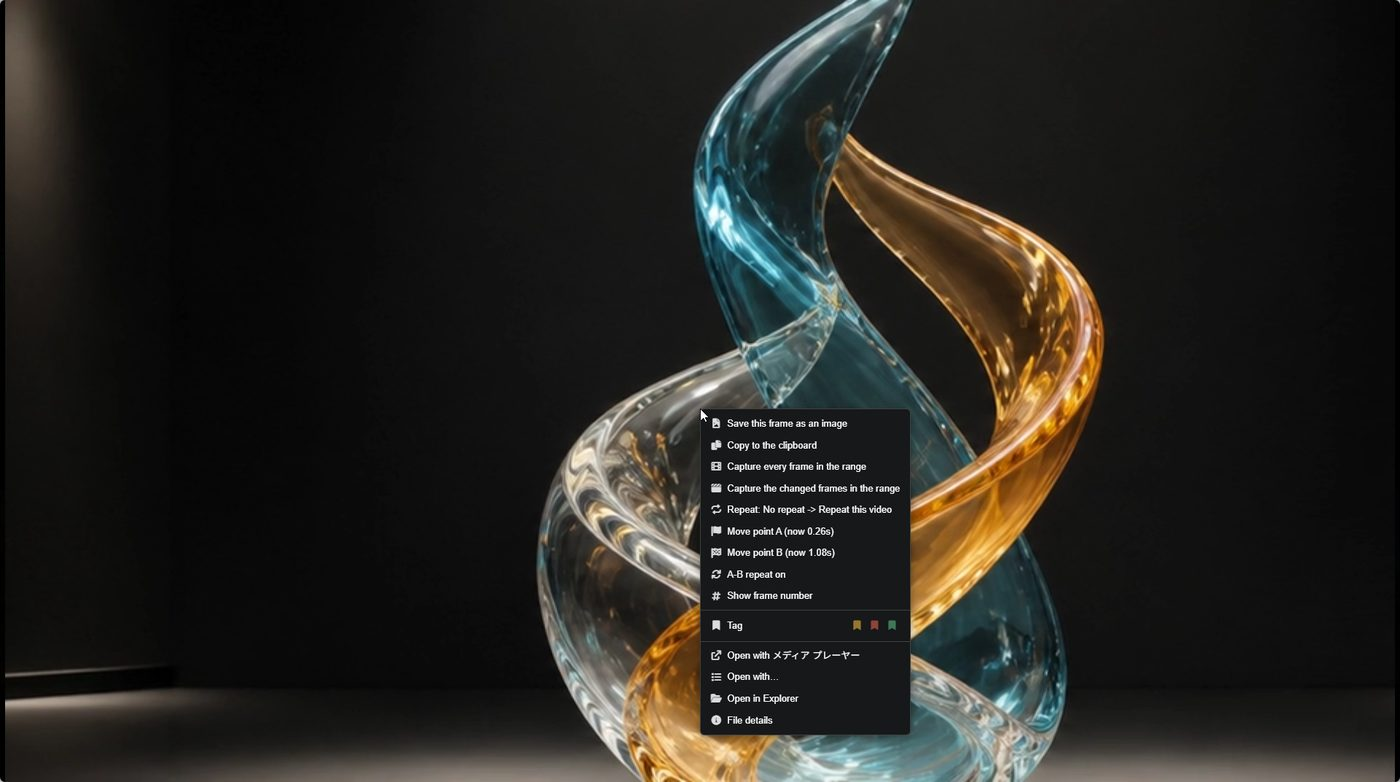
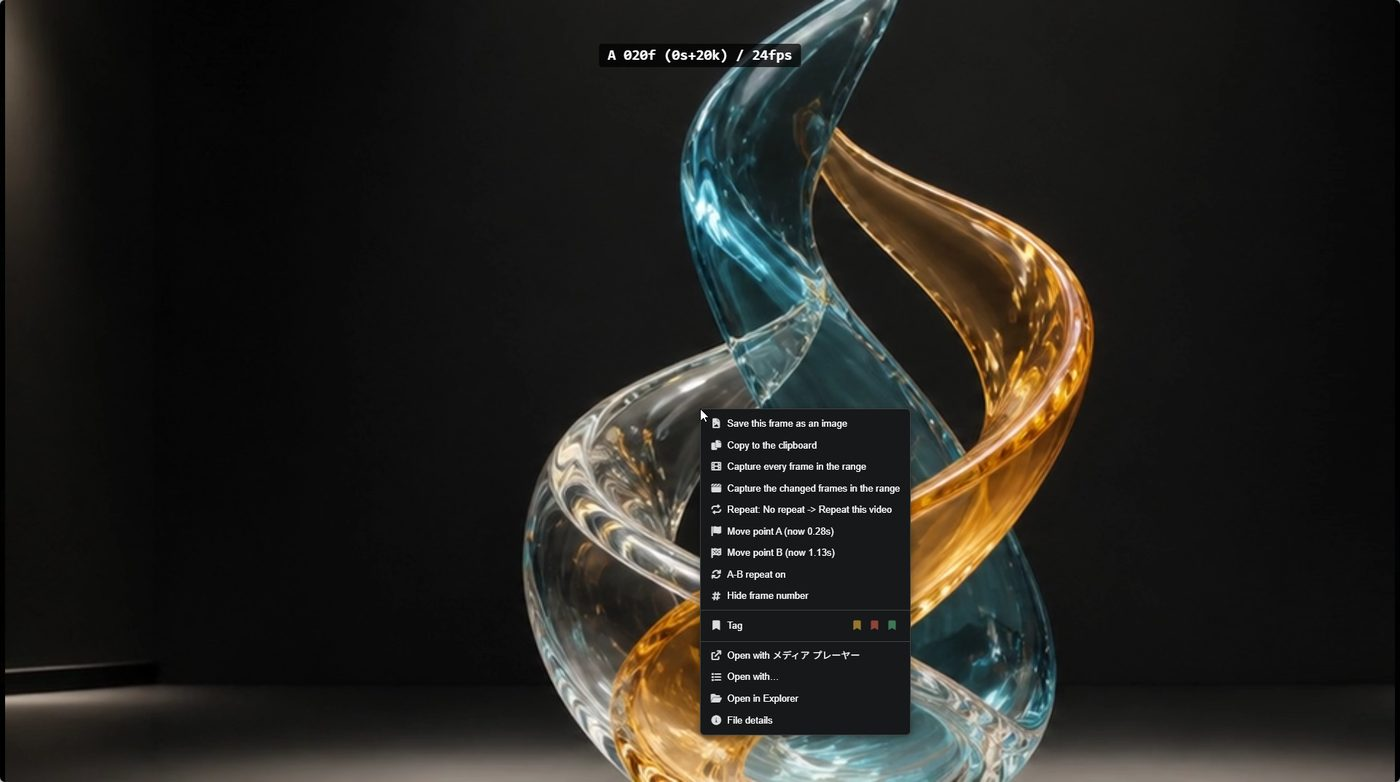
書き出しの節の絵に、コマ数を出す
「05 抜く」は範囲を1コマずつ取り出す節なのに、絵には数えている
ところが写っていなかった。A点から20コマ目という表示と、範囲で
書き出すメニューが1枚に収まった。

ホイールの説明も直した。Shift が付箋送りになり、30秒と10秒が
Ctrl と Alt へ動いていたのに、サイトは古いままだった。

Changed region(s): [[0.3686, 0.0, 0.7986, 1.0], [0.0, 0.8286, 0.1229, 0.9207], [0.0, 0.0, 0.0614, 0.1535]]

diff --git a/docs/index.html b/docs/index.html
@@ -872,7 +872,9 @@ footer a:hover { color: var(--text); }
   <div class="wrap">
     <span>YAE View</span>
     <span class="meta" data-version>v0.1.19</span>
+    <span class="meta">© 2026 Sao N</span>
     <span class="sep"></span>
+    <a href="privacy.html">プライバシーポリシー</a>
     <a href="https://github.com/saori-subaru/yaeview/releases" rel="noopener">リリース一覧</a>
   </div>
 </footer>

diff --git a/docs/en/index.html b/docs/en/index.html
@@ -874,7 +874,9 @@ footer a:hover { color: var(--text); }
   <div class="wrap">
     <span>YAE View</span>
     <span class="meta" data-version>v0.1.19</span>
+    <span class="meta">© 2026 Sao N</span>
     <span class="sep"></span>
+    <a href="privacy.html">Privacy policy</a>
     <a href="https://github.com/saori-subaru/yaeview/releases" rel="noopener">All releases</a>
   </div>
 </footer>
